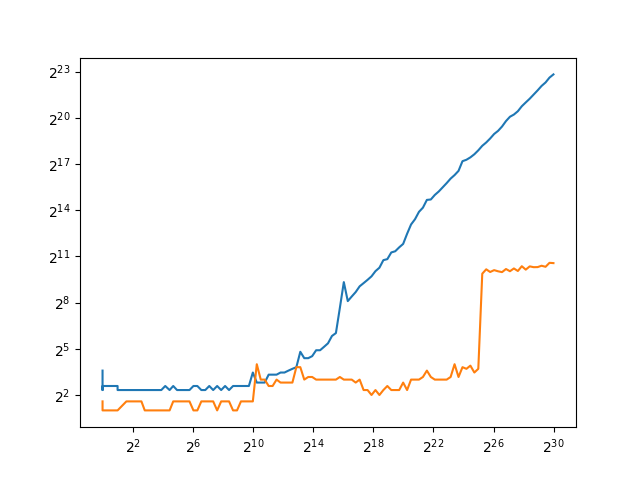
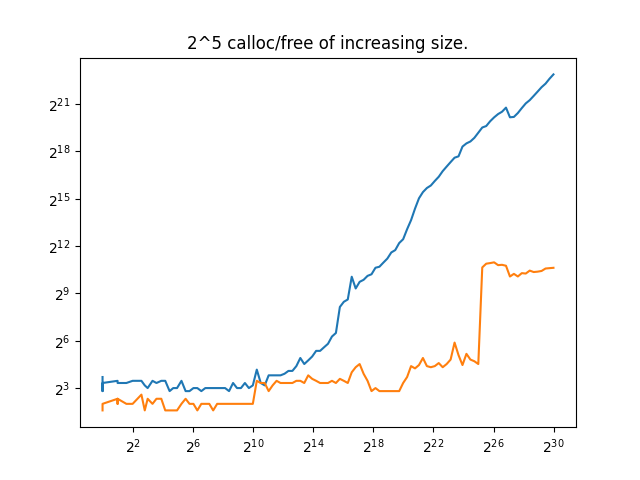
progress

diff --git a/hahalloc.c b/hahalloc.c
@@ -6,10 +6,14 @@ void  pretty_print(range *r);
 
 // Ranges roots are stored on the stack, which probably is a big limitation
 range *roots[RANGE_SEGMENTS];
+// for leak detection
 static size_t oversize_alloc_count;
+// at_exist registration
 static bool has_init = false;
 pthread_mutex_t lock = PTHREAD_MUTEX_INITIALIZER;
 
+// This function assigns a root to a requested 
+// size, yes it's basically log_2 of req_size
 int assign_root(size_t req_size) {
     for (int i = 1; i <= RANGE_SEGMENTS; i++) {
         if ((req_size + sizeof(range)) < SMALLEST_SEGMENT << i) {
@@ -19,8 +23,10 @@ int assign_root(size_t req_size) {
     return RANGE_SEGMENTS - 1;
 }
 
+// This is basically a lookup table
+// that maps root number to mmap alloc sizes
 size_t mapping_size_from_index(int index) {
-    size_t tmp = SMALLEST_SEGMENT << index;
+    size_t tmp = SMALLEST_SEGMENT << index+1;
 
     if (tmp > PAGESIZE) return tmp * 10;
     return PAGESIZE * 10;
@@ -50,7 +56,6 @@ void *hahalloc(size_t req_size) {
     // Initialize the first mapping
     if (roots[index] == NULL) {
         void *ptr = mmap(NULL, mapping_size_from_index(index), PROT_READ | PROT_WRITE, MAP_PRIVATE | MAP_ANONYMOUS, -1, 0);
-        memset(ptr, 0, sizeof(range));
 
         root = ptr;
         root->prev = NULL;
@@ -66,7 +71,6 @@ void *hahalloc(size_t req_size) {
     } else {
         root = roots[index];
     }
-
 
     // Linked list parsing to find nearest available range
     range *curr = root;
@@ -137,6 +141,7 @@ void *hahalloc(size_t req_size) {
             new->next = NULL;
 
             curr->next = new;
+            // The while loop can now do one final step.
         }
         curr = curr->next;
     }
@@ -199,10 +204,10 @@ void frhehe(void *ptr) {
         }
     }
 
-    // We can munmap the mapping only within a few conditions:
+    // We can only munmap the mapping within 2 conditions:
     //  - the range must be at the start of a non-root mapping
     //  - the next range is either another mapping or non-existant
-    //       (basically the current range covers the full mapping)
+    //       (aka the current range covers the full mapping)
     if (curr->meta & IS_MAPPING_START) {
         #ifdef DEBUG
         printf("Unmmappable range\n");
@@ -262,6 +267,8 @@ void *rehehalloc(void * ptr, size_t size) {
     range *curr = ptr - sizeof(range);
     range *next = curr->next;
 
+    // We backup the next range, as it is likely we override some 
+    // data if the realloc amount is small.
     range back_next = *next;
 
     // We don't bother updating the pointer if 
@@ -275,10 +282,10 @@ void *rehehalloc(void * ptr, size_t size) {
     }
 
     // If the following range is free, we can expand into it.
-    if (
-            !(next->meta & IS_ALLOCATED) && 
-            !(next->meta & IS_MAPPING_START) &&
-            next->size > size - curr->size) {
+    // Prevents the use of memcpy.
+    if (!(next->meta & IS_ALLOCATED) && 
+        !(next->meta & IS_MAPPING_START) &&
+        next->size > size - curr->size) {
 
         #ifdef DEBUG
         printf("Resize realloc\n");
@@ -287,6 +294,8 @@ void *rehehalloc(void * ptr, size_t size) {
         pthread_mutex_lock(&lock);
 
         range *new = ptr + size;
+        // memset is important as it is likely there is some
+        // unwanted data here.
         memset(new, 0, sizeof(range));
 
         new->size = back_next.size - (size - curr->size);
@@ -310,6 +319,7 @@ void *rehehalloc(void * ptr, size_t size) {
     // the old data and return it
     void *newptr = hahalloc(size);
     memcpy(newptr, ptr, curr->size);
+    // don't forget to free
     frhehe(ptr);
     #ifdef DEBUG
     printf("realloc realloc.\n");
@@ -325,6 +335,9 @@ void *chahalloc(size_t size) {
     return ptr;
 }
 
+// Prints the heap summary at the end of execution.
+// This is basically a while loop that counts every
+// un-freed pointer and adds their sizes up for later display.
 void mem_lhihiks() {
     size_t active_ranges = oversize_alloc_count;
 
@@ -351,7 +364,7 @@ void mem_lhihiks() {
 
             int free_ranges = 0;
             int alloc_ranges = 0;
-            int alloc_mappings = 0;
+            int alloc_mappings = 1;
             size_t total_alloc_size = 0;
             size_t total_size = 0;
 
@@ -377,7 +390,7 @@ void mem_lhihiks() {
                 RED printf("%d ", alloc_ranges); RESET
             }
             
-            printf("allocated range(s) - %d free on %d mappings. (%lu / %lu Bytes).\n", free_ranges, alloc_mappings, total_alloc_size, total_size);
+            printf("allocated range(s) - %d free on %d mapping(s). (%lu / %lu Bytes).\n", free_ranges, alloc_mappings, total_alloc_size, total_size);
         }
     }
 
@@ -392,6 +405,7 @@ void mem_lhihiks() {
 
 }
 
+// absolute state of the are debug tool 💪
 void pretty_print(range *r) {
     range *curr = r;
     size_t total_size = 0;

diff --git a/py/graphs.py b/py/graphs.py
@@ -15,6 +15,7 @@ def single_alloc():
     plt.xscale('log', base=2)
     plt.yscale('log', base=2)
     # plt.show()
+    plt.title("2^15 alloc/free of increasing size.")
     plt.savefig("py/img/single_alloc.png")
     plt.close()
 
@@ -57,6 +58,7 @@ def calloc():
     plt.xscale('log', base=2)
     plt.yscale('log', base=2)
     # plt.show()
+    plt.title("2^5 calloc/free of increasing size.")
     plt.savefig("py/img/single_calloc.png")
     plt.close()
 

diff --git a/hahalloc.h b/hahalloc.h
@@ -37,7 +37,7 @@
 
 // from 512B to 1 GB
 #define SMALLEST_SEGMENT 1l << 8
-#define RANGE_SEGMENTS 22
+#define RANGE_SEGMENTS 21
 
 typedef struct range {
     struct range *prev;

diff --git a/tests.c b/tests.c
@@ -22,6 +22,8 @@ int main() {
     realloc_test();
     thread_lock();
 
+    hahalloc(200000);
+
     return 0;
 }
 

diff --git a/README.md b/README.md
@@ -1,23 +1,142 @@
 # Hahalloc
 
-A lightweight, memory allocator written in C, that can sometimes be faster than malloc.
+A lightweight, thread-safe* memory allocator written in C, that can sometimes be faster than malloc. It is designed to track memory leaks and gives you a heap summary at the end of your program's execution.
 
-## Definitions
- - range
- - root
- - metadata
+The API is the following:
 
-## example
+| Hahalloc | STD equivalent | 
+|---|--- |
+| hahalloc | malloc |
+| frhehe | free |
+| chahalloc | calloc |
+| rehehalloc | realloc |
+| mem_lhihiks | |
+### API reference
+
+```C
+void *hahalloc(size_t size);
+```
+Behaves the exact same way as `malloc`: returns a pointer of `size` bytes.
+
+```C
+void frhehe(void *ptr);
+```
+Same as `free`, liberates the pointer's memory. Further use of `ptr` might result in an immidiate crash, it should be set to `NULL`.
+
+```C
+void *rehehalloc(void *ptr, size_t size);
+```
+Once again this behaves like it's STD's counterpart, with the difference that `size` can be smaller than the allocated size of `ptr`. A pointer to the newly-allocated memory is returned.
+
+```C
+void *chahalloc(size_t size);
+```
+`calloc` equivalent. Note that the arguments differ as `chahalloc` only takes a `size` argument to be more fitting with `hahalloc`.
+
+```C
+void mem_lhihiks(size_t size);
+```
+You can call this function at any time to print a heap summary to `stdout`.
+
+# Using Hahalloc
+To compile the library, simply clone the repo and run `make`.
+To run tests and / or performance benchmark, run `make tests`, `make bench` or `make all`.
+To link this library to another program, run it with: 
+```bash
+LD_LIBRARY_PATH=<path_to_libhahaloc.so>:$LD_LIBRARY_PATH
+```
+
+# Inner workings
+
+This repo is an assignment for the first year of my master's degree in high performance computing. As i could have followed some tutorials on implementing memory allocators, i decided not to and went in pretty much blind. If some of the terminology or concepts explained here seem made up, that's why. 
+
+### General definitions and explanation
+
+The library is basically a big `mmap` and `munmap` wrapper.
+Each call to `mmap` gives us a chunk of memory to work with, and each corresponding call to `munmap` releases it. Let's call these chunks **mappings**.
+
+We could simply hand-off these mappings to the user but that would be pretty sub-optimal as there is a lot of overhead in asking memory to the OS. 
+In fact, the mappings are over-allocated, and divided into parts that each act as an individual pointer sent to the user. Each part is called a **range**. Ranges are the base of the structure of Hahalloc.
+
+### Data structure
+
+In order to allow the allocation of *"infinite"* ranges, a double linked list is used. This list links every range to its neighboors (*"right"* and *"left"* neighboors as in directly before and after in memory) and across mappings.
+
+
+Ranges and mappings can be represented as such:
+```
+├───────────────── mapping 1 ──────────────┤    ├───────────────── mapping 2 ──────────────┤ ...
+├───── range 1 ────┤    ├───── range 2 ────┤    ├───── range 3 ────┤    ├───── range 4 ────┤
+┏━━━━━━┳━━━━━━━━━━━┓    ┏━━━━━━┳━━━━━━━━━━━┓    ┏━━━━━━┳━━━━━━━━━━━┓    ┏━━━━━━┳━━━━━━━━━━━┓
+┃ meta ┃ user data ┃ -> ┃ meta ┃ user data ┃ -> ┃ meta ┃ user data ┃ -> ┃ meta ┃ user data ┃ ...
+┗━━━━━━┻━━━━━━━━━━━┛    ┗━━━━━━┻━━━━━━━━━━━┛    ┗━━━━━━┻━━━━━━━━━━━┛    ┗━━━━━━┻━━━━━━━━━━━┛
+```
+With this structure, we just have to store a pointer to the first range on the stack and we can let it expand itself as the user requests more memory.
+However, for the sake of optimisation, there are a total of 22 ranges stored on the stack.
+This allows allocations of similar sizes to stay close to eachother, preventing some fragmentation of the memory.
+Ranges that are pointed to from the heap are called **root ranges** and have a special flag in their metadata.
+
+Note that no memory is mapped if the user doesn't ask for it. This means that the static array of pointers-to-root-ranges is initially an array of `NULL`.
+
+We can represent the total memory structure like so:
+```
+┏━━━━━━━━━┓    ┏━━━━━━━━━━━┓    ┏━━━━━━━━━━━┓
+┃ ROOT  1 ┃ -> ┃ mapping 1 ┃ -> ┃ mapping 2 ┃ ...
+┣━━━━━━━━━┫    ┗━━━━━━━━━━━┛    ┗━━━━━━━━━━━┛
+┃ ROOT  2 ┃ -> NULL
+┗━━━━━━━━━┛    
+   ...
+┏━━━━━━━━━┓    ┏━━━━━━━━━━━┓    ┏━━━━━━━━━━━┓
+┃ ROOT 21 ┃ -> ┃ mapping 1 ┃ -> ┃ mapping 2 ┃ ...
+┣━━━━━━━━━┫    ┣━━━━━━━━━━━┫    ┗━━━━━━━━━━━┛
+┃ ROOT 22 ┃ -> ┃ mapping 1 ┃ -> NULL
+┗━━━━━━━━━┛    ┗━━━━━━━━━━━┛
+```
+Better justification of this choice of structure can be found in the [Optimisation](#optimisation) section.
+
+### Range struct
+
+Range metadata is made up of 4 components:
+```C
+typedef struct range {
+    struct range *prev;
+    struct range *next;
+    size_t size;
+    unsigned short meta;
+} range;
+```
+
+`prev` and `next` are obviously pointers to linked neighboors,
+`size` is the number of bytes of the range, or the memory sent to the user
+`meta` is a byte containing 4 bit flags:
+```
+00000000
+    │││└─ range is the root of a list
+    ││└── range is allocated
+    │└─── range is the start of a mapping
+    └──── oversize mapping
+```
+This would, in theory, optimise the size of a range and save some space with lots of active pointers, but is in fact not necessary because GCC adds padding to structs, making them 8-bytes aligned.
+I guess another way to see it is that we still have 7 bytes free for use in the struct.
 
 # Optimisations
- - range size segmentation
- - fast reallocation of freed memory
- - reduced fragmentation
-   - merging neighbooring free ranges
- - range page allignment
- - small range metadata size (idk if really present)
 
-# Benchmarking
+Here is a list of optimisations implemented:
+
+### Mapping recycling
+Mapping are allocated to **10x** the size of the biggest range that fits in them. 
+For example: mappings on root number 10 are $2^{10}\times 10$ bytes long and store ranges that are between $2^9$ and $2^{10}$ bytes.
+
+### Root size groups
+
+### Memory de-fragmentation
+
+#### coalescence
+#### innacessible range prevention
+
+# Thread safety
+
+# Performance
 
 $2^{15}$ allocs of increasing sizes.
 ![haha](py/img/single_alloc.png)
@@ -33,3 +152,5 @@ $2^{20}$ random allocs and free of random sizes, while keeping a buffer of x/2 p
 
 reallocs
 ![haha](py/img/re_alloc.png)
+
+# Possible improvements
